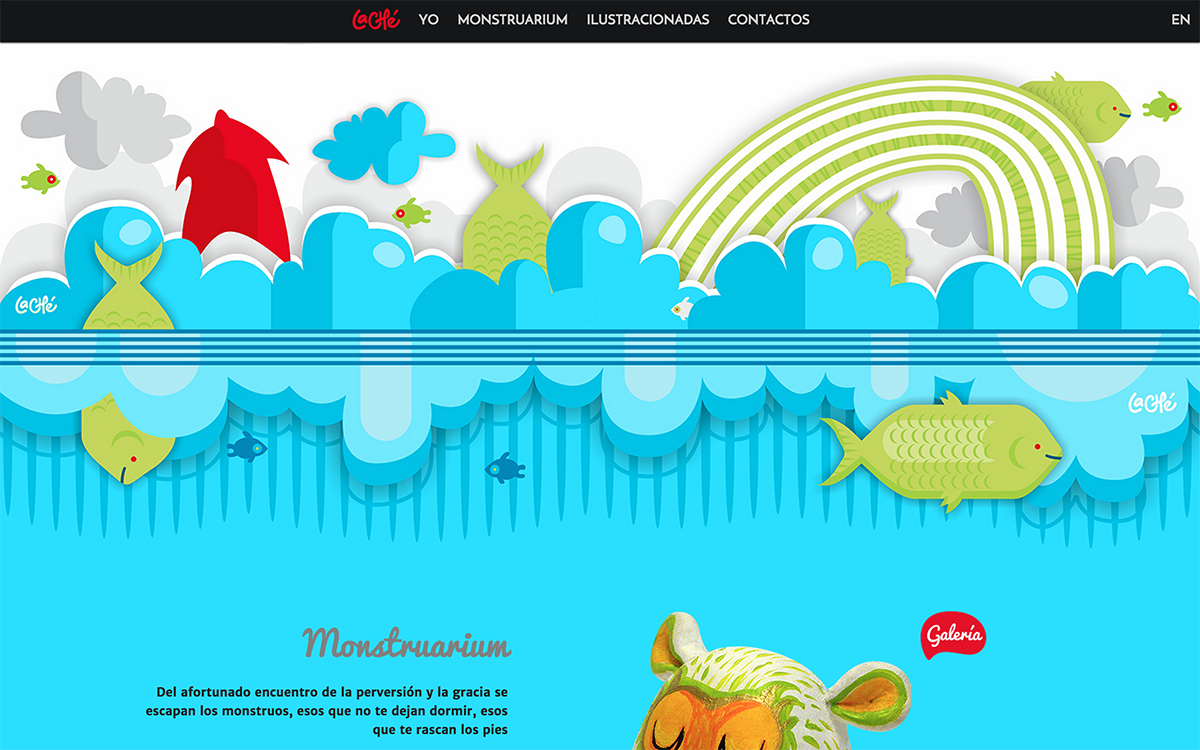
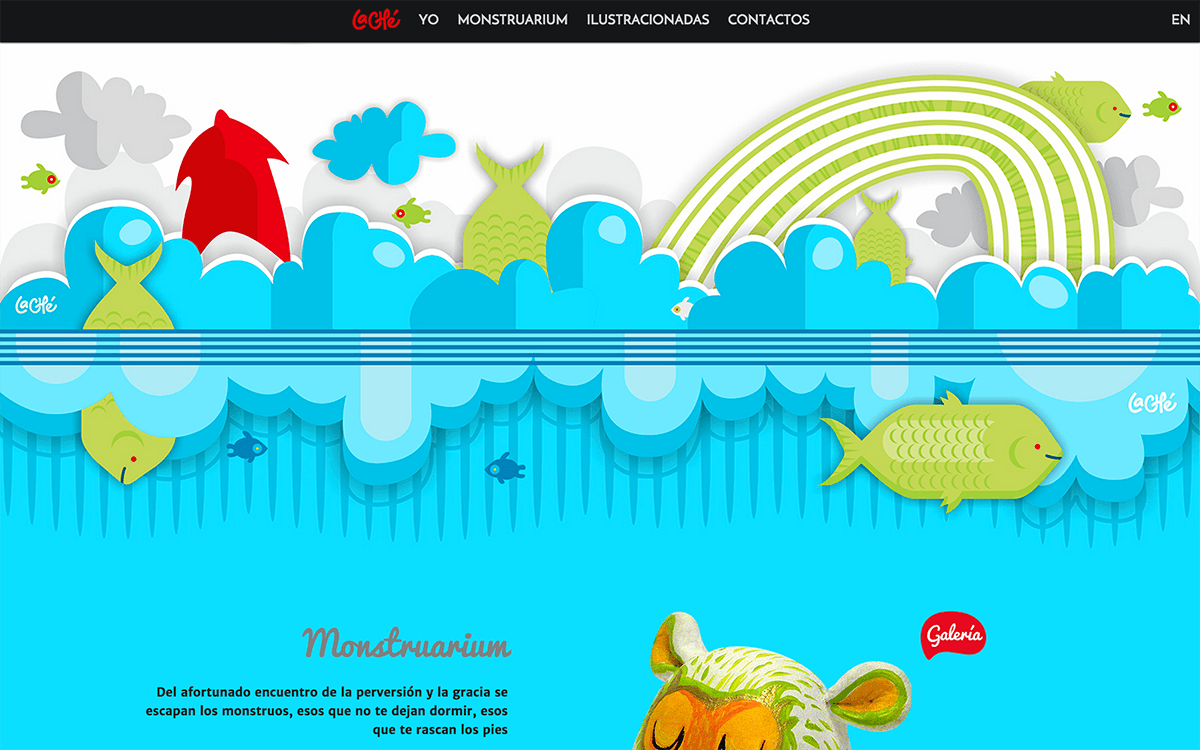
Compress imgs

diff --git a/work.html b/work.html
@@ -1,0 +1,41 @@
+---
+layout: page
+title: "Portfolio"
+description: "This is what I do."
+---
+
+<div class="work-list">
+  <a href="https://murmuring-island-7760.herokuapp.com/" target="_blank">
+      <img src="{{ site.baseurl }}/img/brand.png" alt="Post Sample Image">
+  </a>
+
+  <h3>Marketplace</h3>
+  <p>Fully fleged marketplace where you can buy and sell unique objects</p>
+
+  <hr style="padding-bottom:100px">
+
+  <a href="http://ouisi.co" target="_blank">
+      <img src="{{ site.baseurl }}/img/ouisi.png" alt="Post Sample Image">
+  </a>
+
+  <h3>Ouisi</h3>
+  <p>Landing page for the startup Ouisi</p>
+
+  <hr style="padding-bottom:100px">
+
+  <a href="http://hernandotejada.com/" target="_blank">
+      <img src="{{ site.baseurl }}/img/tejada.png" alt="Post Sample Image">
+  </a>
+  <h3>Hernando Tejada</h3>
+  <p>Website of the Colombian artist Hernando Tejada</p>
+
+  <hr style="padding-bottom:100px">
+
+  <a href="http://lache.co" target="_blank">
+      <img src="{{ site.baseurl }}/img/lache.png" alt="Post Sample Image">
+  </a>
+
+  <h3>La Ché</h3>
+  <p>Website of the Colombian artist and graphic designer La Ché</p>
+
+</div>

diff --git a/_site/2015/02/03/blogging-with-jekyll-part-1/index.html b/_site/2015/02/03/blogging-with-jekyll-part-1/index.html
@@ -17,6 +17,7 @@
 
     <!-- Custom CSS -->
     <link rel="stylesheet" href="/css/blog.css">
+    <link rel="stylesheet" href="/css/work.css">
 
     <!-- sidebar -->
     <link rel="stylesheet" href="/css/sidebar.css">
@@ -51,7 +52,7 @@
       <div class="col-xs-8 text-right">
         <ul class="nav">
           <li><a href="/">Home</a></li>
-          <li><a href="/portfolio">Portfolio</a></li>
+          <li><a href="/work">Work</a></li>
           <li><a href="/about">About</a></li>
         </ul>
       </div>

diff --git a/_site/2015/02/04/blogging-with-jekyll-part-2/index.html b/_site/2015/02/04/blogging-with-jekyll-part-2/index.html
@@ -17,6 +17,7 @@
 
     <!-- Custom CSS -->
     <link rel="stylesheet" href="/css/blog.css">
+    <link rel="stylesheet" href="/css/work.css">
 
     <!-- sidebar -->
     <link rel="stylesheet" href="/css/sidebar.css">
@@ -51,7 +52,7 @@
       <div class="col-xs-8 text-right">
         <ul class="nav">
           <li><a href="/">Home</a></li>
-          <li><a href="/portfolio">Portfolio</a></li>
+          <li><a href="/work">Work</a></li>
           <li><a href="/about">About</a></li>
         </ul>
       </div>

diff --git a/_site/about/index.html b/_site/about/index.html
@@ -17,6 +17,7 @@
 
     <!-- Custom CSS -->
     <link rel="stylesheet" href="/css/blog.css">
+    <link rel="stylesheet" href="/css/work.css">
 
     <!-- sidebar -->
     <link rel="stylesheet" href="/css/sidebar.css">
@@ -51,7 +52,7 @@
       <div class="col-xs-8 text-right">
         <ul class="nav">
           <li><a href="/">Home</a></li>
-          <li><a href="/portfolio">Portfolio</a></li>
+          <li><a href="/work">Work</a></li>
           <li><a href="/about">About</a></li>
         </ul>
       </div>

diff --git a/_site/contact/index.html b/_site/contact/index.html
@@ -17,6 +17,7 @@
 
     <!-- Custom CSS -->
     <link rel="stylesheet" href="/css/blog.css">
+    <link rel="stylesheet" href="/css/work.css">
 
     <!-- sidebar -->
     <link rel="stylesheet" href="/css/sidebar.css">
@@ -51,7 +52,7 @@
       <div class="col-xs-8 text-right">
         <ul class="nav">
           <li><a href="/">Home</a></li>
-          <li><a href="/portfolio">Portfolio</a></li>
+          <li><a href="/work">Work</a></li>
           <li><a href="/about">About</a></li>
         </ul>
       </div>

diff --git a/_site/index.html b/_site/index.html
@@ -17,6 +17,7 @@
 
     <!-- Custom CSS -->
     <link rel="stylesheet" href="/css/blog.css">
+    <link rel="stylesheet" href="/css/work.css">
 
     <!-- sidebar -->
     <link rel="stylesheet" href="/css/sidebar.css">
@@ -51,7 +52,7 @@
       <div class="col-xs-8 text-right">
         <ul class="nav">
           <li><a href="/">Home</a></li>
-          <li><a href="/portfolio">Portfolio</a></li>
+          <li><a href="/work">Work</a></li>
           <li><a href="/about">About</a></li>
         </ul>
       </div>

diff --git a/_includes/nav.html b/_includes/nav.html
@@ -8,7 +8,7 @@
       <div class="col-xs-8 text-right">
         <ul class="nav">
           <li><a href="{{ site.baseurl }}/">Home</a></li>
-          <li><a href="{{ site.baseurl }}/portfolio">Portfolio</a></li>
+          <li><a href="{{ site.baseurl }}/work">Work</a></li>
           <li><a href="{{ site.baseurl }}/about">About</a></li>
         </ul>
       </div>

diff --git a/_includes/head.html b/_includes/head.html
@@ -14,6 +14,7 @@
 
     <!-- Custom CSS -->
     <link rel="stylesheet" href="{{ "/css/blog.css" | prepend: site.baseurl }}">
+    <link rel="stylesheet" href="{{ "/css/work.css" | prepend: site.baseurl }}">
 
     <!-- sidebar -->
     <link rel="stylesheet" href="{{ "/css/sidebar.css" | prepend: site.baseurl }}">

diff --git a/css/work.css b/css/work.css
@@ -1,0 +1,4 @@
+.work-list a:focus img,
+.work-list a:hover img {
+  opacity: .75;
+}

diff --git a/README.md b/README.md
@@ -1,24 +1,9 @@
-#Clean Blog by Start Bootstrap - Jekyll Version
+#My personal bog/portfolio
 
-The official Jekyll version of the Clean Blog theme by [Start Bootstrap](http://startbootstrap.com/).
+Developped using [Jekyll](http://jekyllrb.com/)and based on:
 
-###[View Live Demo &rarr;](http://ironsummitmedia.github.io/startbootstrap-clean-blog-jekyll/)
+###[Clean blog template](http://ironsummitmedia.github.io/startbootstrap-clean-blog-jekyll/)
+###[Simple sidebar](http://ironsummitmedia.github.io/startbootstrap-simple-sidebar/)
 
-## Before You Begin
 
-In the _config.yml file, the base URL is set to /startbootstrap-clean-blog-jekyll which is this themes gh-pages preview. It's recommended that you remove the base URL before working with this theme locally!
 
-It should look like this:
-`baseurl: ""`
-
-## What's Included
-
-A full Jekyll environment is included with this theme. If you have Jekyll installed, simply run `jekyll serve` in your command line and preview the build in your browser. You can use `jekyll serve --watch` to watch for changes in the source files as well.
-
-A Grunt environment is also included. There are a number of tasks it performs like minification of the JavaScript, compiling of the LESS files, adding banners to keep the Apache 2.0 license intact, and watching for changes. Run the grunt default task by entering `grunt` into your command line which will build the files. You can use `grunt watch` if you are working on the JavaScript or the LESS.
-
-You can run `jekyll serve --watch` and `grunt watch` at the same time to watch for changes and then build them all at once.
-
-## Support
-
-Visit Clean Blog's template overview page on Start Bootstrap at http://startbootstrap.com/template-overviews/clean-blog/ and leave a comment, email feedback@startbootstrap.com, or open an issue here on GitHub for support.
